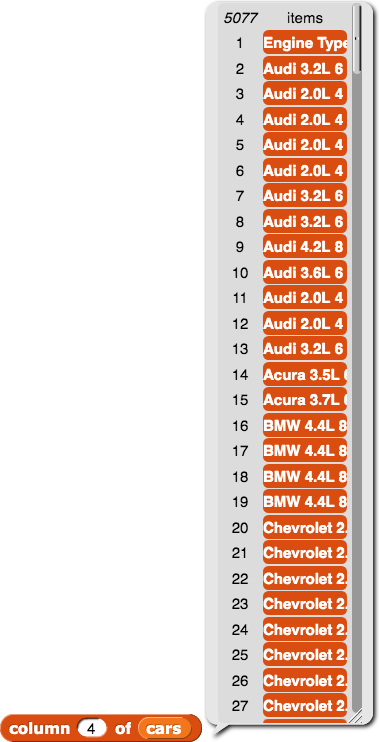
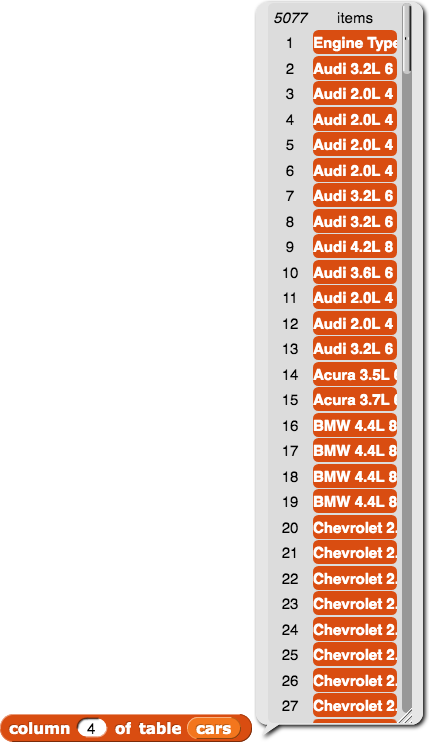
3.4 - Jens's Data Lab First Draft

Changed region(s): [[0.0, 0.0, 0.9868, 1.0]]

diff --git a/cur/programming/3-lists/4-data-processing/1-importing-data.html b/cur/programming/3-lists/4-data-processing/1-importing-data.html
@@ -1,0 +1,176 @@
+<!DOCTYPE html>
+<html lang="en">
+    <head>
+		<meta http-equiv="content-type" content="text/html; charset=utf-8" />
+        <script type="text/javascript" src="/bjc-r/llab/loader.js"></script>
+        <script type="text/javascript" src="/bjc-r/utilities/gifffer.min.js"></script>
+        <script type="text/javascript">window.onload = function() {Gifffer();}</script>
+        <link rel="stylesheet" type="text/css" href="/bjc-r/css/bjc-gifffer.css">
+		<title>Unit 3 Lab 4: Data Processing, Page 1</title>
+    </head>
+
+    <body>
+        <h2>Importing and Accessing Data</h2>
+        <div class="todo">
+            <p>This draft is based on <a href="https://www.youtube.com/watch?v=6H8vK8Q5KeY">Jens's data science video</a>. --MF, 6/7/19</p>
+            <p>Brian, I'm definitely going to need some help thinking about how to cover the standards. I think most of DAT-2 goes here with the exception of DAT-2.B, which can go with what's currently 3.5.4. --MF, 6/7/19</p>
+        </div>
+        <div class="learn"></div>
+        <div class="forYouToDo" id="first">
+			<ol>
+				<li><div class="newProject"><span class="text">"U3L4-Data-Processing"</span><img src="/bjc-r/img/icons/new-project-called.png" alt="Start a New Project called U1L2-Crayon" title="Start a New Project called U3L4-Data-Processing" /></div></li>
+                <li>Visit the <a href="https://think.cs.vt.edu/corgis/csv/index.html" title="CORGIS Datasets Project" target="_blank">CORGIS Datasets Project</a> and select a dataset you'd like to explore. Download the CSV file for the data you want to explore.</li>
+                <div class="endnote">
+                    <a href="#hint-CSV" data-toggle="collapse" title="What is a CSV file?">What is a CSV file?</a>
+                    <div id="hint-CSV" class="collapse">
+                        CSV stands for "comma separated values." CSV files are tables of data stored with commas between each item in a row and line breaks between each row in the table. (You can see the commas and line breaks if a CSV in a text editor.) If you want to see the data as a table, you can open the CSV file in a spreadsheets application like Google Sheets, Apple Numbers, or Microsoft Excel. Or you can process the data in Snap<em>!</em>
+                    </div>
+                </div>
+				<li>Open Snap<em>!</em> and drag the downloaded file into the Snap<em>!</em> window. You should see a table full of data. Look over the data including the <em>column headers</em> (labels) in the top row to give yourself a sense of what kind of information is included. Then click "OK," and drag the new global variable from the Variables palette into the scripting area. This variable contains the data as you can see in the watcher on the Snap<em>!</em> stage.</li>
+                <div class="endnote">
+                    If you right-click (or control-click on a Mac) the table, you can switch to "list view" and see how the data (and column headers) are stored as a list of lists. <a href="#hint-views" data-toggle="collapse" title="See examples of 'table view' and 'list view.'">See examples of "table view" and "list view."</a>
+                    <div id="hint-views" class="collapse">
+                        <img class="indent" src="/bjc-r/img/3-lists/cars-table-view.png" alt="report of cars dataset displayed as a table with columns and rows; the first row is the label of each column; the remaining rows each contain the data for a single record" title="report of cars dataset displayed as a table with columns and rows; the first row is the label of each column; the remaining rows each contain the data for a single record" />
+                        <img class="indent" src="/bjc-r/img/3-lists/cars-list-view.png" alt="report of cars dataset displayed as a list of lists; the first list contains the labels for each of the columns shown in the table view; the remaining lists each contain the data for a single record" title="report of cars dataset displayed as a list of lists; the first list contains the labels for each of the columns shown in the table view; the remaining lists each contain the data for a single record" />
+                    </div>
+                </div>
+				<li>Experiment with different inputs to the <code>item of</code> block to access different rows in the dataset. <img class="inline" src="/bjc-r/img/icons/talk-with-your-partner.png" alt="Talk with Your Partner" title="Talk with Your Partner" /> How does the result of <code>item (1) of</code> your data set differ from other input numbers?</li>
+			</ol>
+		</div>
+        <p>Each row in your dataset is one <em>record</em>. For example, a single record might be the data for one student in your school, the data for one earthquake that happened, the data for one hospital in the U.S, or the data for contact in your contact list.</p>
+        <div class="endnote">
+            <a href="#hint-row" data-toggle="collapse" title="Click for examples of a single row (record) of a dataset.">Click for examples of a single row (record) of a dataset.</a>
+            <div id="hint-row" class="collapse">
+                <img class="indent" src="/bjc-r/img/3-lists/item-1-of-cars.png" alt="item (1) of (cars) reporting a {City mpg, Classification, Driveline, Engine Type, Fuel Type, Height, ...}" title="item (1) of (cars) reporting a {City mpg, Classification, Driveline, Engine Type, Fuel Type, Height, ...}" />
+                <img class="indent" src="/bjc-r/img/3-lists/item-13-of-cars.png" alt="item (13) of (cars) reporting a {17, Automatic transmission, All-wheel drive, Audi 3.2L 6 cylinder 265hp 243 ft-lbs, Gasoline, 147, ...}" title="item (13) of (cars) reporting a {17, Automatic transmission, All-wheel drive, Audi 3.2L 6 cylinder 265hp 243 ft-lbs, Gasoline, 147, ...}" />
+            </div>
+        </div>
+        <p>Each column in your dataset is one piece of data for all of the records in your dataset. For example, it might be the homeroom teacher for every student in your school, the magnitude of every earthquake in the dataset, the owner of every hospital in the U.S., or the phone number of every person in your contact list.</p>
+        <div class="endnote">
+            <a href="#hint-column" data-toggle="collapse" title="Click for examples of a single column of a dataset.">Click for examples of a single column of a dataset.</a>
+            <div id="hint-column" class="collapse">
+                <p>Notice that the first item is still the column header (label) for the data in that column.</p>
+                <img class="indent" src="/bjc-r/img/3-lists/column-4-of-cars.png" alt="column (4) of (cars) reporting {Engine Type, Audi 3.2L 6..., Audi 2.0L 4..., Audi 2.0L 4..., Audi 2.0L 4..., Audi 2.0L 4..., ...}" title="column (4) of (cars) reporting {Engine Type, Audi 3.2L 6..., Audi 2.0L 4..., Audi 2.0L 4..., Audi 2.0L 4..., Audi 2.0L 4..., ...}" />
+                <img class="indent" src="/bjc-r/img/3-lists/column-13-of-cars.png" alt="column (13) of (cars) reporting {Model Year, 2009 Audi A..., 2009 Audi A..., 2009 Audi A..., 2009 Audi A..., 2009 Audi A..., ...}" title="column (13) of (cars) reporting {Model Year, 2009 Audi A..., 2009 Audi A..., 2009 Audi A..., 2009 Audi A..., 2009 Audi A..., ...}" />
+            </div>
+        </div>
+		<div class="forYouToDo">
+			<ol start="5">
+				<li>
+                    <img class="inline" src="/bjc-r/img/icons/talk-with-your-partner.png" alt="Talk with Your Partner" title="Talk with Your Partner" /> Figure out how to report just one column of your dataset.
+                    <div class="sidenoteBig">
+                        <a href="#hint-map" data-toggle="collapse" title="Try to figure out how to report just one column, but click if you really need a hint.">Try to figure this out, but click if you really need a hint.</a>
+                        <div id="hint-map" class="collapse">Use <img class="inline" src="/bjc-r/img/blocks/map.png" alt="map () over ()" title="map () over ()" />. <code>Map</code> performs the same function to every item in a list. Since a table is a list of lists (where each inner list is one record), it will perform the same function to every record in your dataset. You will need to determine what function to map over the dataset. You learned about <code>map</code> on <a href="/bjc-r/cur/programming/3-lists/1-introduction-to-lists/4-mapping-over-list.html?topic=nyc_bjc%2F3-lists.topic&course=bjc4nyc.html&novideo&noassignment" title="Unit 3 Lab 1 Page 4: Transforming Every List Item">Unit 3 Lab 1 Page 4: Transforming Every List Item</a>.</div>
+                    </div>
+                </li>
+                <div class="todo">TG: Figuring out how to report just one column of a table can be tricky for students. They'll need to map <code>item of</code> over their dataset. For example, <img class="inline" src="/bjc-r/img/3-lists/" alt="map (item (1) over ()) over (cars)" title="map (item (1) over ()) over (cars)" /> reports just the MPG of every car in the CORGIS Cars CSV Library. The <code>map</code> function is simple to understand (e.g, add 3 to every item in the list, or take the fourth item of every record in the table), but it can take time and practice to learn when and how to use it. Encourage students to take that time by talking with their partner, referring back to <a href="/bjc-r/cur/programming/3-lists/1-introduction-to-lists/4-mapping-over-list.html?topic=nyc_bjc%2F3-lists.topic&course=bjc4nyc.html&novideo&noassignment" title="Unit 3 Lab 1 Page 4: Transforming Every List Item">Unit 3 Lab 1 Page 4: Transforming Every List Item</a> where they first learned <code>map</code>, and/or talking to other pairs. </div>
+                <li>Build <code>row () of table ()</code> and <code>column () of table ()</code> blocks to make it easier to access one row or column.</li>
+                <div class="endnote">
+                    <p>Notice that these suggested block names include the word "table" before the second input. The column block will only work if the second input is a list of lists, not just a list of values. Look at your code and figure out why. Including the expected input data type in the block name can help you avoid bugs caused by using the wrong kind of input.</p>
+                </div>
+                <li><img class="inline" src="/bjc-r/img/icons/talk-with-your-partner-mini.png" alt="Talk with Your Partner" title="Talk with Your Partner" /> Determine one question you can ask by <strong>looking at a single column</strong> of your data set, and then build code to answer that question. You may need to build additional blocks or import them from other projects.
+                    <div class="endnote">
+                        <p>
+                            You can see the column number by holding your mouse pointer over the letter at the top of the column in table view.<br />
+                            <img class="indent" src="/bjc-r/img/3-lists/column-number.png" alt="image of the top of the table view for the cars dataset with the mouse pointer over the top of the second column; the columns are now labeled A, 2 (where the pointer is), C, D, etc." title="image of the top of the table view for the cars dataset with the mouse pointer over the top of the second column; the columns are now labeled A, 2 (where the pointer is), C, D, etc." />
+                        </p>
+                        <div class="todo">Need to finish the list inside this hint once the COMBINE block lands. --MF, 6/7/19</div>
+                        <p>You may need to use <code>map</code>, <code>keep</code>, or <code>combine</code> to answer your question. <a href="#hint-HOFs" data-toggle="collapse" title="Click to see where you learned about these higher order functions.">Click to see where you learned about these higher order functions.</a></p>
+                        <div id="hint-HOFs" class="collapse">
+                        <ul>
+                            <li>You learned about <code>map</code> on <a href="/bjc-r/cur/programming/3-lists/1-introduction-to-lists/4-mapping-over-list.html?topic=nyc_bjc%2F3-lists.topic&course=bjc4nyc.html&novideo&noassignment" title="Unit 3 Lab 1 Page 4: Transforming Every List Item">Unit 3 Lab 1 Page 4: Transforming Every List Item</a>.</li>
+                            <li>You learned about <code>keep</code> on <a href="/bjc-r/cur/programming/2-complexity/3-predicates/2-keeping-list-items.html?topic=nyc_bjc%2F2-conditionals-abstraction.topic&course=bjc4nyc.html&novideo&noassignment" title="Unit 2 Lab 3 Page 2: Keeping Items from a List">Unit 2 Lab 3 Page 2: <code>Keep</code>ing Items from a List</a> .</li>
+                            <li>You learned about <code>combine</code> on <a href="" title=""></a>.</li>
+                        </ul>
+                        </div>
+                        <p><a href="#hint-questions" data-toggle="collapse" title="Click for example questions to ask.">Click for example questions to ask.</a></p>
+                        <div id="hint-questions" class="collapse">
+                            <ul>
+                                <li>What's the average MPG that cars in this database get in the city? (You'd need an <code>average</code> block.)</li>
+                                <li>What's the year of the oldest car in this dataset? (You'd need a <code>minimum</code> block.)</li>
+                                <li>How many cars in this dataset have manual transmission? </li>
+                            </ul>
+                            <p>Notice that all of these examples only require data from one column. If you ask a question that requires looking at another column (for example, "What's the model of the car with the highest MPG?"), that will be harder to answer, though you will learn how to soon.</p>
+                        </div>
+                    </div>
+                </li>
+                <div class="todo">TG: After students design and answer their own questions, having them present their questions and solutions to the class will help everyone better appreciate the power of using higher order functions (such as <code>map</code> and <code>keep</code>) to process data and better understand how to use them with a list of lists.</div>
+            </ol>
+        </div>
+        
+        
+
+        <div class="todo"><h1>Page break</h1></div>
+        
+        <h2>Analyzing Data*</h2>
+        <div class="todo">This page should be skippable. --MF, 6/7/19</div>
+        <div class="learn">
+            <p><strong>On this page</strong>, you will ask and answer questions about your dataset and learn new tools.</p>
+        </div>
+        
+        <div class="comment">Jens had <code>round</code> in his example, but I cut it because it's one more thing to try to keep in your head when things are already complex and it doesn't really matter. --MF, 6/7/19</div>
+        <p>
+            You can also ask questions about a specific subset of your data by <em>filtering</em> the data using <code>keep</code>. For example, "What the average city MPG <em>for just the Subarus</em> in this dataset?"<br />
+            <img class="indent" src="/bjc-r/img/3-lists/average-mpg-of-subarus-reporting.png" alt="average of (column (1) of table (keep items such that (item (12) of () = Subaru) from (cars))) reporting 19.49..." title="average of (column (1) of table (keep items such that (item (12) of () = Subaru) from (cars))) reporting 19.49..." /><br />
+            <div class="comment">Include a link to wherever U3 math tools ends up for the <code>average</code> block import. --MF, 6/7/19</div>
+            Column 12 is the "Make" of the vehicle, so we <code>keep</code> all the items from <var>cars</var> where the 12<sup>th</sup> item is Subaru. Then, we take column 1 of that (the "City MPG") and take the average of those values.
+        </p>
+        <div class="todo">
+            <p>There is a part of me that wants to break this up with a FYTD in which they plan their question, but I think it flows better if we go straight into pipe.--MF, 6/7/19</p>
+            <p>
+                Another thought: is this the right place to teach <code>pipe</code>? It adds to the overhead. Maybe there is an earlier place where we could teach it? Maybe we could introduce it with some of the U3 tools stuff (see below). Then this second page of data processing could start with the FYTD, and that overhead would have been addressed on an easier page. --MF, 6/7/19<br />
+                <img class="indent" src="/bjc-r/img/3-lists/divisors-with-pipe.png" />
+            </p>
+        </div>
+    
+        <p>
+            Nested functions like that (functions used inside other functions) can be hard to read though, so Snap<em>!</em> offers another way to code with multiple functions. You can use the <code>pipe</code> function from the "Frequency Distribution Analysis" library to work through your data analysis one function at at time:<br />
+            <img class="indent" src="/bjc-r/img/3-lists/pipe-cars-reporting.png" alt="pipe () → (keep items such that (item 12 of () = Subaru) from ()) (column (1) of table ()) (average of ()) reporting 19.49..." title="pipe () → (keep items such that (item 12 of () = Subaru) from ()) (column (1) of table ()) (average of ()) reporting 19.49..." /><br />
+            The <code>pipe</code> function sends the <var>cars</var> data through <code>keep</code> to filter it for just the Subarus, through <code>column (1) of</code> to get just the "City MPG" for those Subarus, and finally through <code>average</code> to average the MPG values.  
+        </p>
+        <p>Notice that the empty input slots in each function are filled by the output of the previous function (or the starting dataset in the case of the first function): the empty slots in the <code>keep</code> function are both filled by <var>cars</var>; the empty slot in <code>column (1) of table</code> is filled by the output of <code>keep</code>; and the empty slot in <code>average</code> is filled by the output of <code>column (1) of table</code>. It's like a pipe of made of pieces connected together; the data goes in one end and works through each function changing as it goes.</p>
+        
+        <div class="forYouToDo">
+			<ol>
+				<li>Open your U3L4-Data-Processing project if it isn't open already.</li>
+                <li>Load the "Frequency Distribution Analysis" from the Libraries... option in the Snap<em>!</em> File menu (<img src="/bjc-r/img/1-introduction/file_button.png" style="height:1.6em;" alt="File button" title="File button"/>).</li>
+				<li><img class="inline" src="/bjc-r/img/icons/talk-with-your-partner-mini.png" alt="Talk with Your Partner" title="Talk with Your Partner" /> Determine one question you can ask by <strong>looking at <em>just a portion of</em> a single column</strong> of your data set, and then build code to answer that question. You can nest your function or use <code>pipe</code>. (Or try both!)</li>
+				<div class="endnote">
+                    <a href="#hint-target" data-toggle="collapse" title="">Unfinished hint about example questions.</a>
+                    <div id="hint-target" class="collapse">Hint stuff here... It's hidden until you click the toggle.</div>
+                </div>
+			</ol>
+		</div>
+    
+        <div class="todo">These ITIT and TIF problems are not yet built. Jens gets tough quickly, and I love it, but I'm not sure how far we want to take this. I'm actually wondering about offering the kids the video as part of the TIF (the teachers should definitely see it). I'm not actually sure of any of this ITIT and TIF should be on the student page. --MF, 6/7/19</div>
+        <div class="ifTime">
+			<ol start="4">
+				<li><code>group</code> (ITIT because it's not essential but the basics are accessible)</li>
+			</ol>
+		</div>
+    
+        <div class="takeItFurther">
+            <ol type="A">
+				<li><code>sort</code> (TIF because it's hard to understand how/why to set up the predicate</li>
+                <li>constructing new list a.k.a. inserting a column with <code>map</code> (TIF because this is complicated to think about)</li>
+            </ol>
+        </div>
+    
+        <p>
+            You can also... For example, with and without pipe...<br />
+            <img class="indent" src="/bjc-r/img/3-lists/plot-cars-histogram.png" alt="" title="" />
+            <img class="indent" src="/bjc-r/img/3-lists/plot-cars-histogram-with-pipe.png" alt="" title="" /><br />
+            Tada...<br />
+            <img class="indent" src="/bjc-r/img/3-lists/cars-histogram-reporting.png" alt="" title="" />
+            <img class="indent" src="/bjc-r/img/3-lists/plot-cars-histogram-stage.png" alt="" title="" />
+        </p>
+    
+        <div class="forYouToDo">
+			<ol start="5">
+				<li><code>histogram</code> and <code>plot</code></li>
+			</ol>
+		</div>
+
+
+    </body>
+</html>
